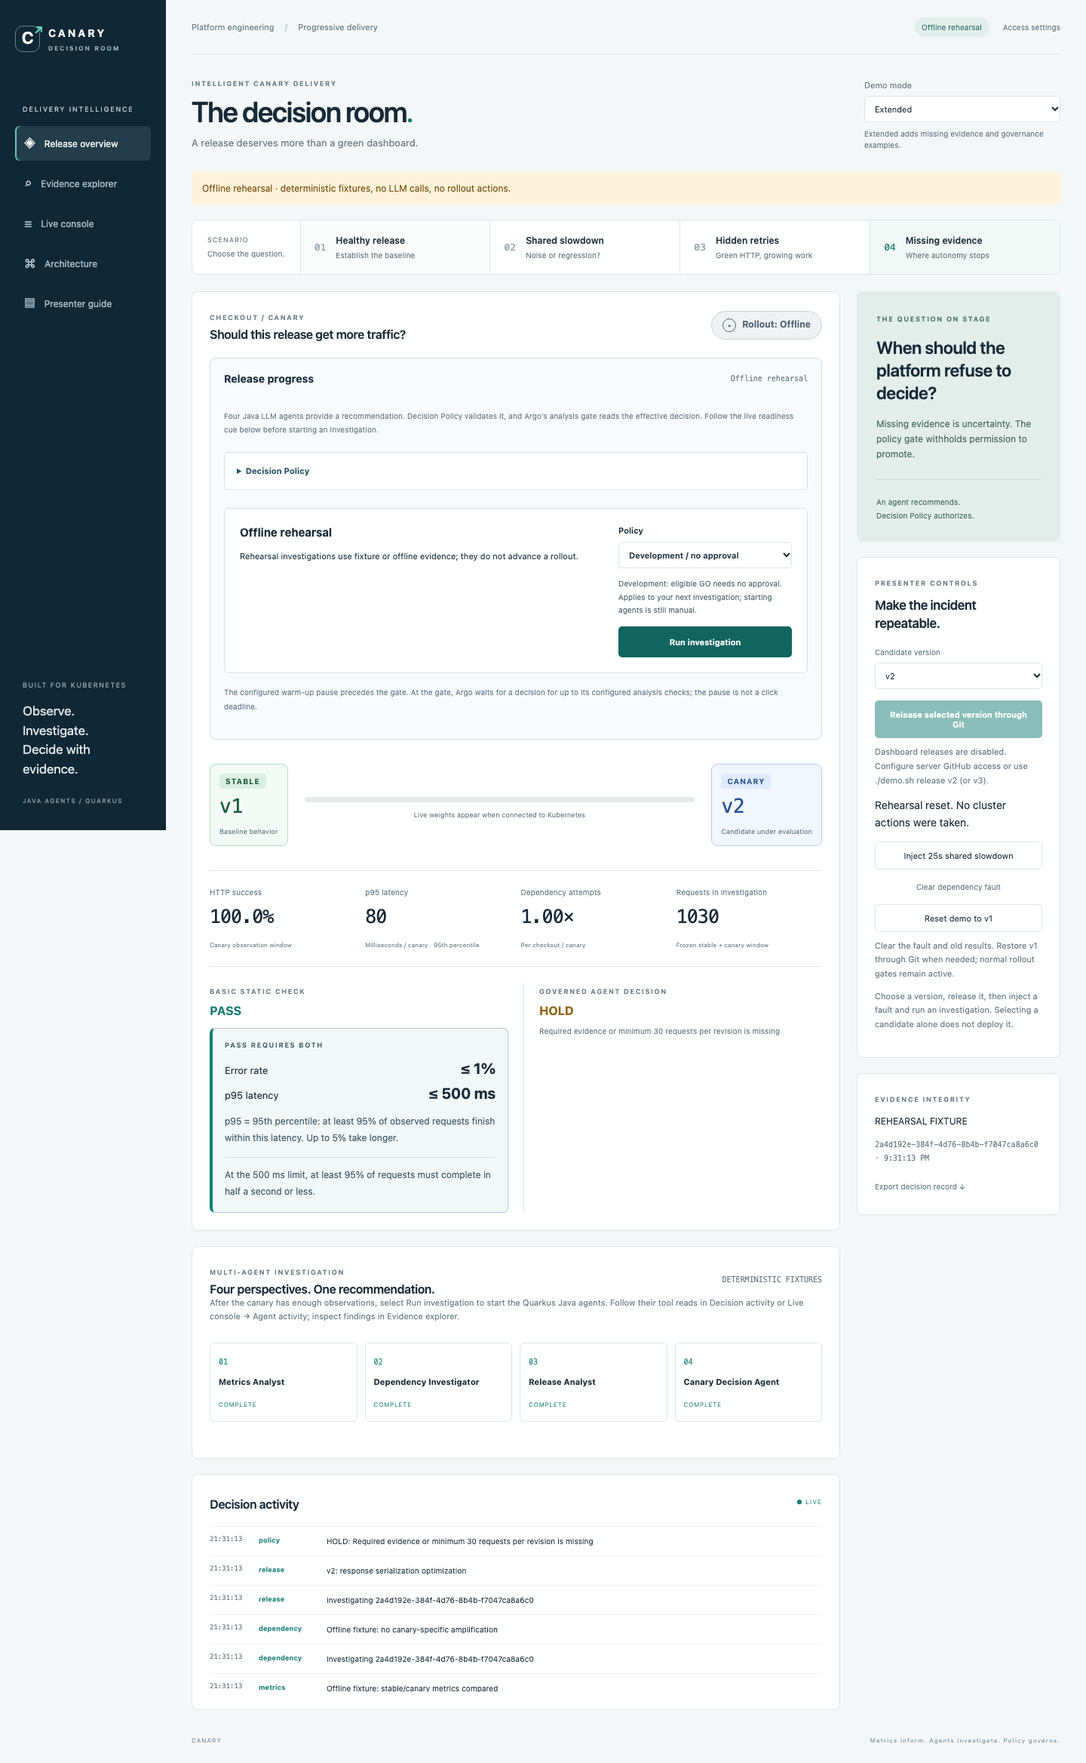
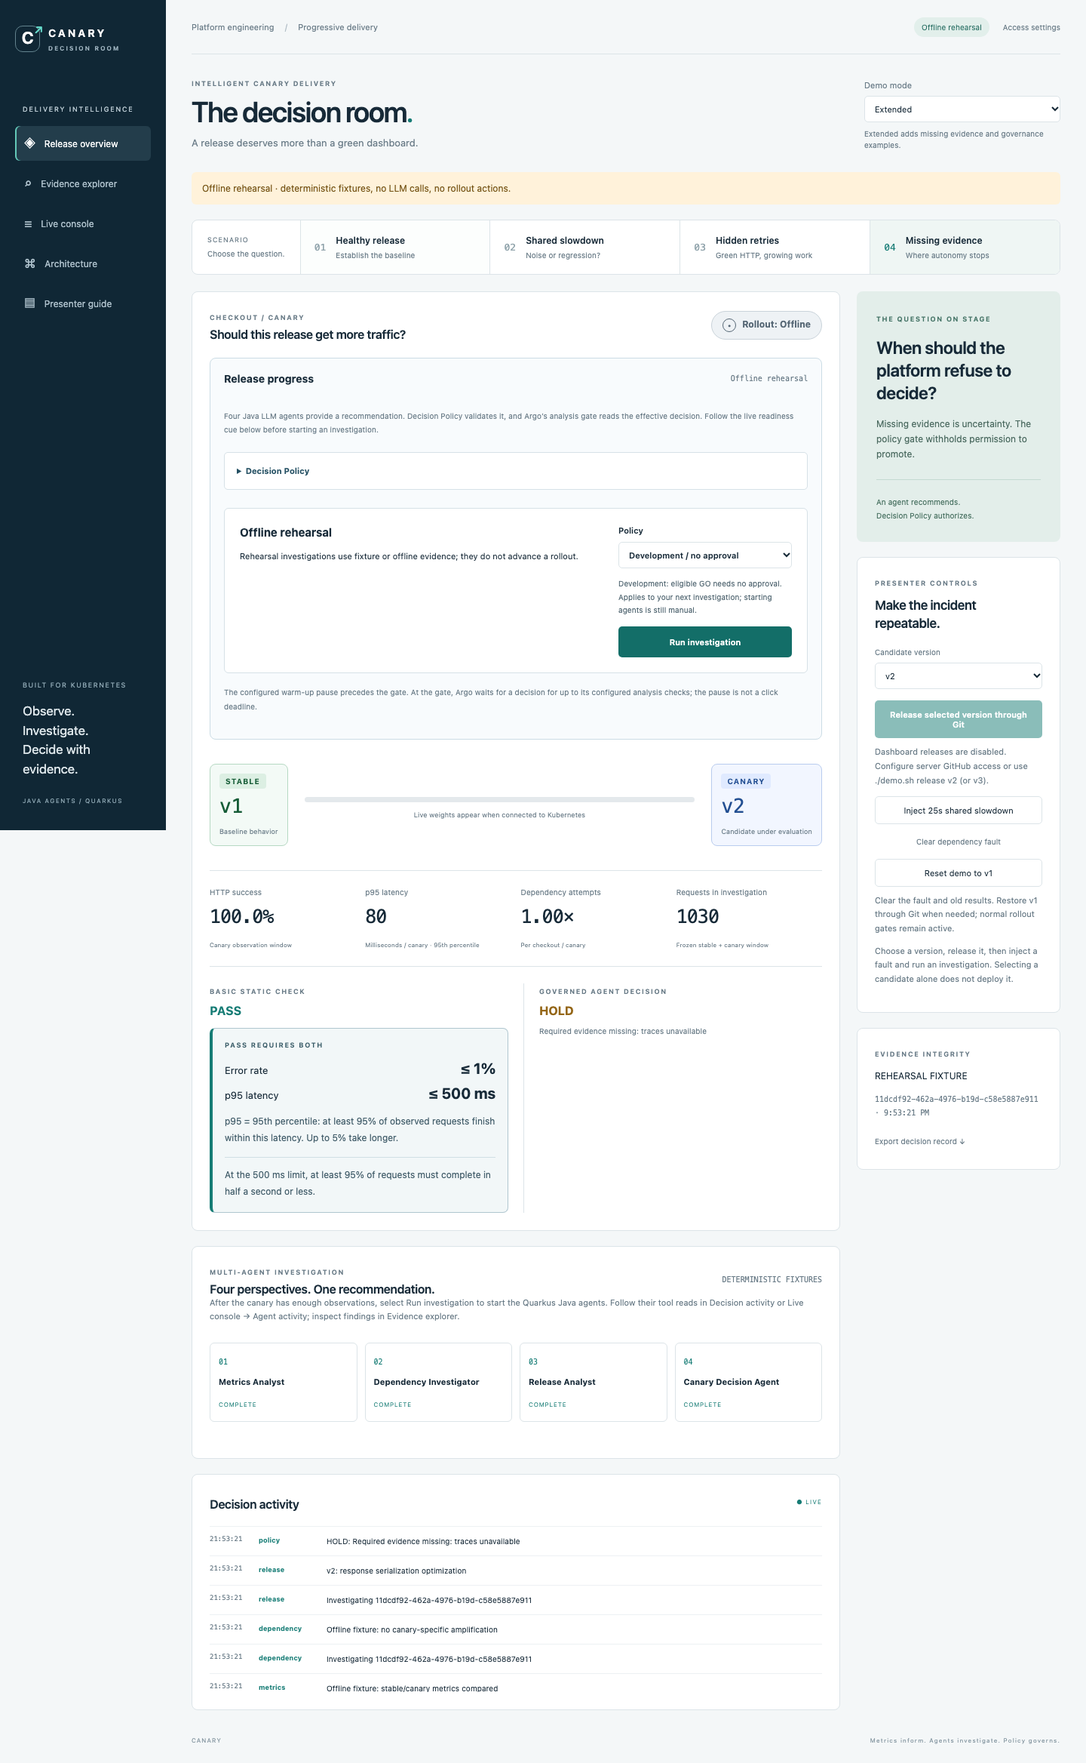
Bind missing-evidence decisions independently of trace samples

Changed region(s): [[0.8125, 0.4375, 0.9688, 0.6562]]

diff --git a/tests/browser/reset.spec.js b/tests/browser/reset.spec.js
@@ -72,3 +72,16 @@ test('NO-GO stays visible after abort resets the step and evidence expires, then
  await page.locator('[data-tab="overview"]').click();rollout.status.currentPodHash='new-canary';rollout.status.phase='Progressing';rollout.status.abort=false;
  await expect(page.locator('#effective-verdict')).toHaveText('Awaiting investigation',{timeout:10000});
 });
+
+test('Missing evidence HOLD stays current without trace rows and clears when rollout identity changes',async({page})=>{
+ const latest=evaluation();latest.evidence.canaryPodHash='old-canary';latest.evidence.traces=[];
+ latest.evidence.missing=['Presenter-injected trace evidence outage'];latest.decision.reason='Required evidence missing: Presenter-injected trace evidence outage';latest.recommendation={verdict:'HOLD',summary:'Missing required trace evidence',limitations:['Trace evidence unavailable'],evidenceIds:[latest.id]};
+ const rollout={spec:{},status:{phase:'Progressing',currentPodHash:'old-canary',stableRS:'old-stable',currentStepIndex:2}};
+ await page.route('**/api/state',r=>r.fulfill({json:{mode:'live',clusterEnabled:true,latest,events:[]}}));
+ await page.route('**/api/cluster',r=>r.fulfill({json:{connected:true,candidateVersion:'v2',stableVersion:'v1',rollout}}));
+ await page.goto('/');await expect(page.locator('#effective-verdict')).toHaveText('HOLD');await expect(page.locator('#static-verdict')).toHaveText('PASS');await expect(page.locator('#latency')).toHaveText('490');
+ await expect(page.locator('#policy-reason')).toContainText('trace evidence outage');await expect(page.locator('#approve')).toBeHidden();
+ await page.locator('[data-tab="evidence"]').click();await expect(page.locator('.evidence-snapshot')).not.toContainText('Historical investigation');await expect(page.locator('.evidence-verdict')).toHaveText(['HOLD','HOLD']);
+ await page.reload();await expect(page.locator('#effective-verdict')).toHaveText('HOLD');
+ rollout.status.currentPodHash='new-candidate';await expect(page.locator('#effective-verdict')).toHaveText('Awaiting investigation',{timeout:10000});
+});

diff --git a/src/main/resources/META-INF/resources/app.js b/src/main/resources/META-INF/resources/app.js
@@ -33,17 +33,22 @@ function releasePending(){
  const intent=state.releaseIntent,actual=clusterView?.rollout?.spec?.template?.metadata?.annotations?.['demo.canary/released-at'];
  return !!(state.clusterEnabled&&intent?.releasedAt&&actual!==intent.releasedAt&&!(Date.parse(actual)>=Date.parse(intent.releasedAt)));
 }
+function evidenceMatchesHash(e,hash){
+ if(!e.evidence||!hash)return false;
+ const observed=e.evidence.canaryPodHash;
+ return observed?observed===hash:!!e.evidence.traces?.some(x=>x.podHash===hash&&x.cohort!=='stable');
+}
 function evidenceCurrent(e){
  if(!e.evidence)return false;
  if(!state.clusterEnabled)return true;
  const r=clusterView?.rollout?.status;
- return !!r&&!releasePending()&&clusterView.candidateVersion===e.evidence.revision&&r.currentStepIndex===e.evidence.rolloutStep&&e.evidence.traces?.some(x=>x.podHash===r.currentPodHash);
+ return !!r&&!releasePending()&&clusterView.candidateVersion===e.evidence.revision&&r.currentStepIndex===e.evidence.rolloutStep&&evidenceMatchesHash(e,r.currentPodHash);
 }
 function retainedNoGo(e){
  const r=clusterView?.rollout?.status;
  return !!(state.clusterEnabled&&clusterView?.connected&&!releasePending()&&e.decision?.effective==='NO_GO'&&e.evidence
   &&(r?.abort===true||['Degraded','Failed','Error'].includes(r?.phase))&&clusterView.candidateVersion===e.evidence.revision
-  &&e.evidence.traces?.some(x=>x.podHash===r.currentPodHash&&x.cohort!=='stable'));
+  &&evidenceMatchesHash(e,r.currentPodHash));
 }
 function renderProgress(){
  const p=progressView,r=clusterView?.rollout?.status;

diff --git a/src/test/java/dev/danieloh/canary/resource/MissingEvidenceBindingTest.java b/src/test/java/dev/danieloh/canary/resource/MissingEvidenceBindingTest.java
@@ -1,0 +1,44 @@
+package dev.danieloh.canary.resource;
+
+import dev.danieloh.canary.model.Evaluation;
+import dev.danieloh.canary.service.*;
+import io.fabric8.kubernetes.api.model.GenericKubernetesResource;
+import io.quarkus.test.junit.QuarkusTest;
+import org.junit.jupiter.api.Test;
+import java.time.Instant;
+import java.util.*;
+import static dev.danieloh.canary.model.Domain.*;
+import static org.junit.jupiter.api.Assertions.*;
+
+@QuarkusTest
+class MissingEvidenceBindingTest {
+    Evidence evidence(){return new Evidence("binding",Instant.now(),"LIVE_KUBERNETES_REQUESTS","v2","stable",2,
+        new Signal(100,0,10,1),new Signal(40,0,12,1),List.of(Map.of("podHash","candidate","cohort","canary")),List.of(),List.of("Existing collection gap"),"v2 notes","candidate");}
+    static class Cluster extends ClusterService {
+        String hash="candidate";int step=2;
+        @Override public boolean isEnabled(){return true;}
+        @Override public GenericKubernetesResource rollout(){var r=new GenericKubernetesResource();r.setAdditionalProperty("status",Map.of("currentStepIndex",step,"currentPodHash",hash));return r;}
+    }
+    @Test void withholdingTracesPreservesIdentityAndAllExistingGaps(){
+        var original=evidence();var missing=original.withoutTraceEvidence("Presenter-injected trace evidence outage");
+        assertTrue(missing.traces().isEmpty());assertEquals(original.canaryPodHash(),missing.canaryPodHash());assertTrue(missing.matchesPodHash("candidate"));assertFalse(missing.matchesPodHash("different"));assertFalse(missing.matchesPodHash(""));
+        assertEquals(List.of("Existing collection gap","Presenter-injected trace evidence outage"),missing.missing());
+        var go=new Recommendation(Verdict.GO,"Optimistic model",List.of(missing.id()),List.of());var decision=new DecisionPolicy().evaluate(missing,go,"production",true,Instant.now());
+        assertEquals(Verdict.HOLD,decision.effective());assertFalse(decision.approvalRequired());assertTrue(decision.reason().contains("trace evidence outage"));
+    }
+    @Test void missingSceneEndpointRetainsCollectorIdentityWithoutStartingLiveAgents(){
+        var resource=new DemoResource();resource.role="control";resource.store=new DemoStore();resource.cluster=new Cluster();
+        resource.collector=new EvidenceCollector(){@Override public Evidence collect(String revision){return evidence();}};
+        resource.investigations=new InvestigationService(){@Override public synchronized Evaluation start(Evidence evidence,String profile){return new Evaluation(evidence,profile,"live");}};
+        var result=resource.evaluate("missing","development","v2");assertTrue(result.evidence.traces().isEmpty());assertEquals("candidate",result.evidence.canaryPodHash());assertEquals(2,result.evidence.rolloutStep());assertEquals(2,result.evidence.missing().size());
+    }
+    @Test void analysisReturnsTheSavedHoldReasonWithoutTracesButStillRejectsWrongStageHashAndExpiry(){
+        var cluster=new Cluster();var resource=new DemoResource();resource.role="control";resource.cluster=cluster;resource.store=new DemoStore();
+        var missing=evidence().withoutTraceEvidence("Presenter-injected trace evidence outage");var e=new Evaluation(missing,"development","live");
+        e.status="COMPLETE";e.decision=new DecisionPolicy().evaluate(missing,null,"development",false,Instant.now());resource.store.add(e);
+        assertEquals(e.decision.reason(),resource.analysis("v2").get("reason"));assertEquals(e.id,resource.analysis("v2").get("evaluationId"));assertEquals("HOLD",resource.analysis("v2").get("verdict"));
+        cluster.step=5;assertTrue(resource.analysis("v2").get("reason").toString().contains("rollout step"));
+        cluster.step=2;cluster.hash="different";assertTrue(resource.analysis("v2").get("reason").toString().contains("revision differs"));
+        cluster.hash="candidate";e.decision=new Decision(Verdict.GO,Verdict.GO,"old",false,Instant.now().minusSeconds(1),"development");assertEquals("HOLD",resource.analysis("v2").get("verdict"));
+    }
+}

diff --git a/src/main/java/dev/danieloh/canary/resource/DemoResource.java b/src/main/java/dev/danieloh/canary/resource/DemoResource.java
@@ -51,7 +51,7 @@ public class DemoResource {
         if(!Set.of("healthy","slowdown","retry","missing").contains(scene)||!Set.of("v1","v2","v3").contains(revision))throw new BadRequestException();
         if(store.hasRunningEvaluation())throw new ClientErrorException("An investigation is already running",409);
         Evidence evidence=cluster.isEnabled()?collector.collect(revision):RehearsalEvidence.forScene(scene);
-        if(cluster.isEnabled() && scene.equals("missing")) evidence=new Evidence(evidence.id(),evidence.capturedAt(),evidence.source(),evidence.revision(),evidence.stableRevision(),evidence.rolloutStep(),evidence.stable(),evidence.canary(),List.of(),evidence.logs(),List.of("Presenter-injected trace evidence outage"),evidence.releaseNotes());
+        if(cluster.isEnabled() && scene.equals("missing")) evidence=evidence.withoutTraceEvidence("Presenter-injected trace evidence outage");
         return investigations.start(evidence,profile);
         }
     }
@@ -72,7 +72,7 @@ public class DemoResource {
             var status=(Map<?,?>)cluster.rollout().getAdditionalProperties().get("status");
             String hash=Objects.toString(status.get("currentPodHash"),"");
             if(!(status.get("currentStepIndex") instanceof Number step) || step.intValue()!=e.evidence.rolloutStep())return Map.of("verdict","HOLD","reason","A fresh investigation is required at this rollout step");
-            boolean matches=e.evidence.traces().stream().anyMatch(x->hash.equals(x.get("podHash")));
+            boolean matches=e.evidence.matchesPodHash(hash);
             if(!matches)return Map.of("verdict","HOLD","reason","Current rollout revision differs from evidence");
         }catch(Exception ex){return Map.of("verdict","HOLD","reason","Cannot verify rollout identity");}
         return Map.of("verdict",e.decision.effective().name(),"evaluationId",e.id,"reason",e.decision.reason());

diff --git a/src/main/java/dev/danieloh/canary/model/Domain.java b/src/main/java/dev/danieloh/canary/model/Domain.java
@@ -11,7 +11,21 @@ public final class Domain {
     public record Evidence(String id, Instant capturedAt, String source, String revision,
                            String stableRevision, int rolloutStep, Signal stable, Signal canary,
                            List<Map<String,Object>> traces, List<String> logs, List<String> missing,
-                           String releaseNotes) {}
+                           String releaseNotes, String canaryPodHash) {
+        public Evidence(String id,Instant capturedAt,String source,String revision,String stableRevision,int rolloutStep,
+                        Signal stable,Signal canary,List<Map<String,Object>> traces,List<String> logs,List<String> missing,String releaseNotes) {
+            this(id,capturedAt,source,revision,stableRevision,rolloutStep,stable,canary,traces,logs,missing,releaseNotes,"");
+        }
+        public boolean matchesPodHash(String hash) {
+            if(hash==null||hash.isBlank())return false;
+            if(canaryPodHash!=null&&!canaryPodHash.isBlank())return hash.equals(canaryPodHash);
+            return traces.stream().anyMatch(x->hash.equals(x.get("podHash"))&&!"stable".equals(x.get("cohort")));
+        }
+        public Evidence withoutTraceEvidence(String reason) {
+            var gaps=new java.util.ArrayList<>(missing);gaps.add(reason);
+            return new Evidence(id,capturedAt,source,revision,stableRevision,rolloutStep,stable,canary,List.of(),logs,List.copyOf(gaps),releaseNotes,canaryPodHash);
+        }
+    }
     public record Finding(String summary, List<String> evidenceIds, List<String> limitations) {}
     public record Recommendation(Verdict verdict, String summary, List<String> evidenceIds, List<String> limitations) {}
     public record Decision(Verdict recommendation, Verdict effective, String reason, boolean approvalRequired,

diff --git a/src/main/java/dev/danieloh/canary/service/DecisionPolicy.java b/src/main/java/dev/danieloh/canary/service/DecisionPolicy.java
@@ -10,8 +10,10 @@ public class DecisionPolicy {
         Instant expiry = e.capturedAt().plusSeconds(120);
         if (now.isAfter(expiry) || e.capturedAt().isAfter(now.plusSeconds(5)))
             return result(r, Verdict.HOLD, "Evidence is stale or clock skew is invalid", false, expiry, profile);
-        if (!e.missing().isEmpty() || e.stable().requests() < 30 || e.canary().requests() < 30)
-            return result(r, Verdict.HOLD, "Required evidence or minimum 30 requests per revision is missing", false, expiry, profile);
+        if (!e.missing().isEmpty())
+            return result(r, Verdict.HOLD, "Required evidence missing: " + String.join("; ",e.missing()), false, expiry, profile);
+        if (e.stable().requests() < 30 || e.canary().requests() < 30)
+            return result(r, Verdict.HOLD, "Minimum 30 requests per revision not met", false, expiry, profile);
         if (e.canary().errorRate() >= 0.10)
             return result(r, Verdict.NO_GO, "Hard safety cap: canary errors reached 10%", false, expiry, profile);
         if (r == null || r.verdict() == null || r.summary() == null || r.summary().isBlank()

diff --git a/src/main/java/dev/danieloh/canary/service/RolloutProgressService.java b/src/main/java/dev/danieloh/canary/service/RolloutProgressService.java
@@ -106,7 +106,7 @@ public class RolloutProgressService {
             else {state="READY";message="Ready to investigate at "+weight+"% canary. The analysis gate is waiting for your decision.";}
             var latest=store.latest();
             boolean same=latest!=null&&latest.evidence.rolloutStep()==index&&latest.evidence.revision().equals(revision)
-                &&latest.evidence.traces().stream().anyMatch(x->hash.equals(x.get("podHash")));
+                &&latest.evidence.matchesPodHash(hash);
             if(same&&ready) {
                 if(latest.status.equals("RUNNING")){state="INVESTIGATING";message="Java agents are investigating this stage. Follow Decision activity below.";ready=false;}
                 else if(latest.decision!=null&&Instant.now().isBefore(latest.decision.expiresAt())) {

diff --git a/src/test/java/dev/danieloh/canary/service/EvidenceCollectorTest.java b/src/test/java/dev/danieloh/canary/service/EvidenceCollectorTest.java
@@ -38,6 +38,7 @@ class EvidenceCollectorTest {
             try {
                 var evidence=collector.collect("v2",rollout);
                 assertTrue(evidence.missing().isEmpty(),evidence.missing().toString());assertEquals(1,evidence.stable().requests());assertEquals(31,evidence.canary().requests());
+                assertEquals("candidate",evidence.canaryPodHash());assertTrue(evidence.matchesPodHash("candidate"));
                 assertEquals(5,evidence.canary().p95Ms());assertEquals(1,evidence.canary().attemptsPerCheckout());
                 assertEquals(11,evidence.traces().size());assertTrue(evidence.traces().stream().noneMatch(x->x.get("traceId").equals("old")));
             }finally{collector.shutdown();}

diff --git a/src/main/java/dev/danieloh/canary/service/EvidenceCollector.java b/src/main/java/dev/danieloh/canary/service/EvidenceCollector.java
@@ -73,7 +73,7 @@ public class EvidenceCollector {
                 case "v1" -> "v1: baseline checkout with one inventory attempt";
                 case "v3" -> "v3: inventory retry budget increased to eight attempts";
                 default -> "v2: checkout response optimization";
-            });
+            },canaryHash);
     }
     public static Signal summarize(List<Map<String,Object>> observations) {
         if(observations.isEmpty())return new Signal(0,0,0,0);

diff --git a/README.md b/README.md
@@ -168,7 +168,7 @@ Select **Reset demo to v1** in Presenter controls. In the cluster this clears th
 
 If v1 needs recovery, the overview shows **Awaiting baseline**. Wait for the 10% analysis stage and at least 30 observations per revision, then run a Development investigation for v1. Repeat at the 50% analysis stage. If an analysis has already ended Inconclusive, request the reset again to create a fresh Git revision. Once v1 is Healthy, select Reset again to clear the completed recovery investigation without creating another rollout. The clean overview shows a green **Rollout: Healthy** badge, v1 stable, no canary, empty signal values, and **Awaiting investigation**. Rollout badges use amber for paused/progressing states, red for failures, and gray for unavailable status. Stable identity is green, an active canary is blue, and an absent canary is neutral with **No active canary**. These role colors are separate from health.
 
-Release changes immediately invalidate the previous current result. The overview also checks live pod identity, rollout stage, and decision expiry; historical results remain in Evidence explorer instead of appearing as the active verdict. A matching NO-GO is retained as the recorded outcome when Argo aborts that rollout, even if its step index resets or evidence expires; a new release/reset clears it. It is labeled historical evidence and never becomes fresh authorization. Evidence explorer prominently highlights the agent recommendation and effective verdict, with expiry separate from the saved result. The controller decision endpoint continues returning HOLD until fresh eligible evidence authorizes a rollout.
+Release changes immediately invalidate the previous current result. Evidence stores `canaryPodHash` independently of trace observations, so the deliberate Missing evidence scenario remains bound to its release while returning HOLD. The overview and analysis endpoint check that identity even when traces are withheld. The overview also checks live pod identity, rollout stage, and decision expiry; historical results remain in Evidence explorer instead of appearing as the active verdict. A matching NO-GO is retained as the recorded outcome when Argo aborts that rollout, even if its step index resets or evidence expires; a new release/reset clears it. It is labeled historical evidence and never becomes fresh authorization. Evidence explorer prominently highlights the agent recommendation and effective verdict, with expiry separate from the saved result. The controller decision endpoint continues returning HOLD until fresh eligible evidence authorizes a rollout.
 
 The dashboard uses versioned application assets and explicit no-store headers for its mutable HTML, scripts, styles, and diagrams. This avoids mixing new HTML with JavaScript/CSS previously cached as immutable for 24 hours. After an upgrade, reload the page once; the versioned URLs bypass legacy asset entries. The policy selector and single investigation action share one readiness area: choose Development / no approval for the core flow, or Production / approval before a fresh investigation for HITL.
 

diff --git a/docs/tutorials/04-govern.md b/docs/tutorials/04-govern.md
@@ -51,7 +51,7 @@ In this demo, selecting Missing evidence and running an investigation deliberate
 1. Use a healthy **v2** candidate at an active analysis gate, with no shared slowdown and at least 30 observations in both cohorts. A completed/aborted gate needs a fresh release first.
 2. Select **Development / no approval** to isolate evidence completeness from the separate human-approval example.
 3. Switch **Demo mode → Extended**, choose **Missing evidence**, confirm candidate v2, and run the stage-specific investigation. Selecting the scenario alone does not run agents or change the cluster.
-4. Open **Evidence explorer**. Show healthy HTTP signals alongside the empty trace observations and missing-evidence entry in the raw observation window. Then show **Recommendation → Decision Policy**, the effective HOLD, and its missing-evidence reason. Distinguish any agent uncertainty from the platform's mandatory prerequisite.
+4. Open **Evidence explorer**. Show healthy HTTP signals alongside the empty trace observations and missing-evidence entry in the raw observation window. Then show **Recommendation → Decision Policy**, the effective HOLD, and its missing-evidence reason. Release overview should show the same HOLD for that current stage; rollout identity is kept separately from the deliberately withheld traces. Distinguish any agent uncertainty from the platform's mandatory prerequisite.
 5. Explain that **Approve promotion cannot override missing evidence**. An approval supplies human authorization; it cannot supply observations that were never collected. NO-GO rejects an evidenced regression; this HOLD withholds judgment because required information is absent.
 6. Choose **Healthy release**, confirm the same active candidate, and investigate again to collect a fresh complete snapshot. This clears the scene's deliberate trace withholding; it does not repair a real external outage. If fresh evidence meets all rules and the agents support promotion, Development can produce GO; Production additionally requires eligible human approval.
 

diff --git a/docs/reference/api.md b/docs/reference/api.md
@@ -22,6 +22,8 @@ Reset and release actions reject concurrent investigations. A reset on an alread
 
 Dashboard release responses include `refreshRequested` as the string `"true"` or `"false"`. The server requests a hard refresh of the named `canary-checkout` Application only after Git accepts the commit. A failed refresh does not roll back or invalidate that commit; the response reports the automatic-sync fallback. The control service needs its existing Application read permission plus the named-Application patch Role installed by `scripts/configure-release-refresh.sh`. This presenter action is not an agent tool, does not patch the Rollout, and does not bypass analysis or approval gates.
 
+Cluster evidence includes `canaryPodHash`, captured from Rollout status independently of trace observations. Withholding traces preserves this metadata and records the missing prerequisite; it does not turn a current HOLD into an unrelated historical investigation. The SPA, progress guidance, and analysis endpoint still reject mismatched rollout stages, pod-template identities, and expired authorization. Required-evidence failures identify the actual gap separately from insufficient request counts.
+
 ## Start an investigation
 
 The endpoint accepts query parameters and does not require a JSON body:
